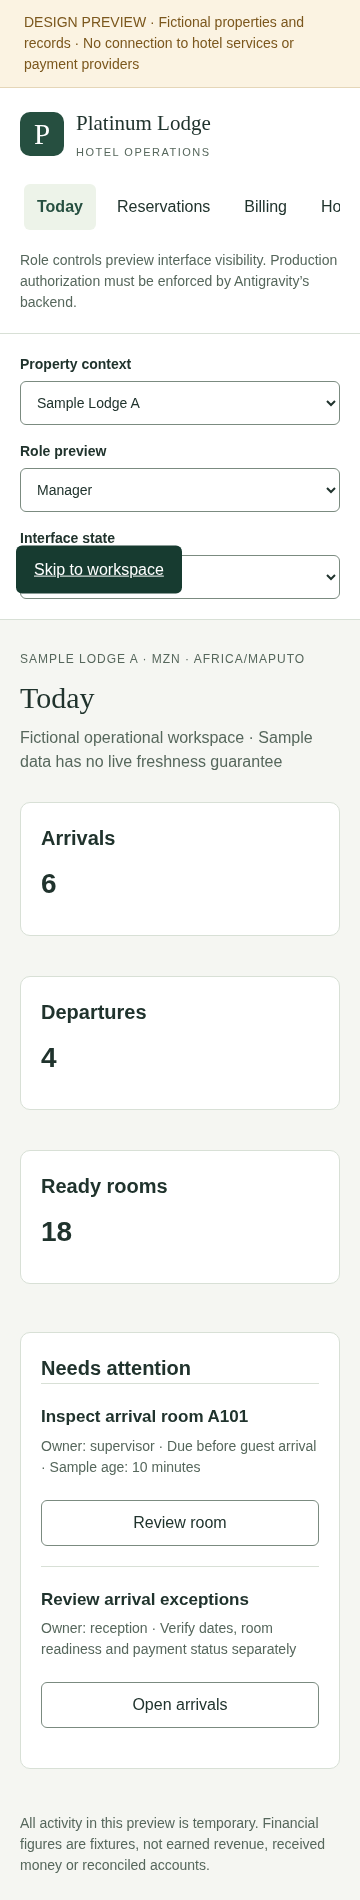
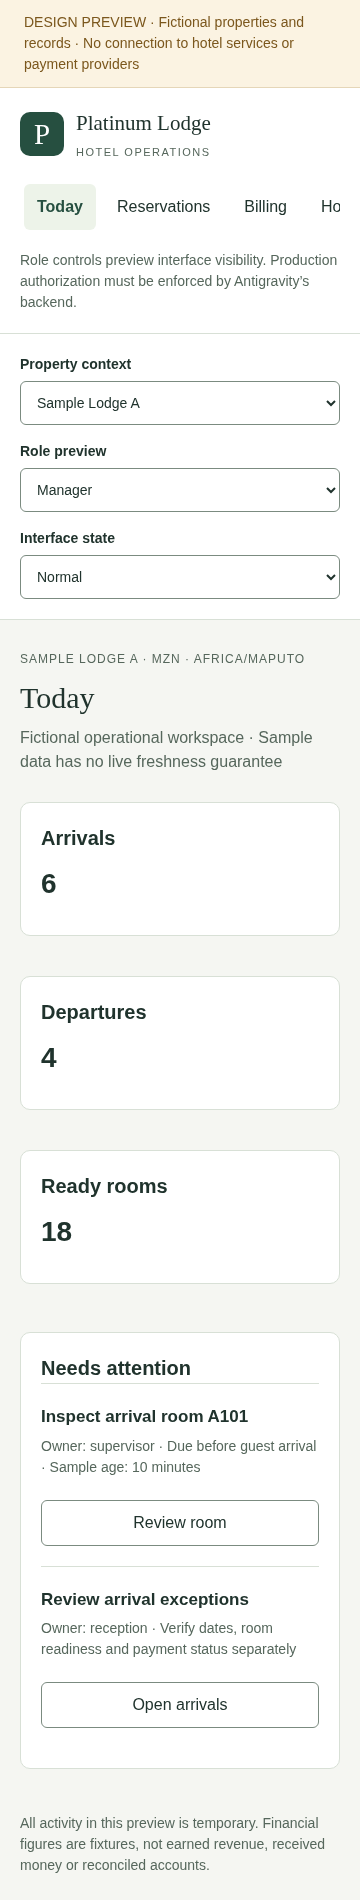
Capture preview evidence from the document top

Changed region(s): [[0.0306, 0.2795, 0.5194, 0.3105]]

diff --git a/projects/platinum-lodge/test/browser/preview_checks.py b/projects/platinum-lodge/test/browser/preview_checks.py
@@ -87,7 +87,8 @@ try:
                 page.set_viewport_size({'width':width,'height':900})
                 page.locator('#role').select_option('manager')
                 page.locator('[data-view="today"]').click()
-                page.evaluate('document.activeElement.blur()')
+                page.evaluate('document.activeElement.blur(); window.scrollTo(0,0)')
+                page.evaluate('new Promise(resolve => requestAnimationFrame(resolve))')
                 page.screenshot(path=str(target / f'today-{width}.png'), full_page=True)
         assert not failures, failures
         browser.close()
